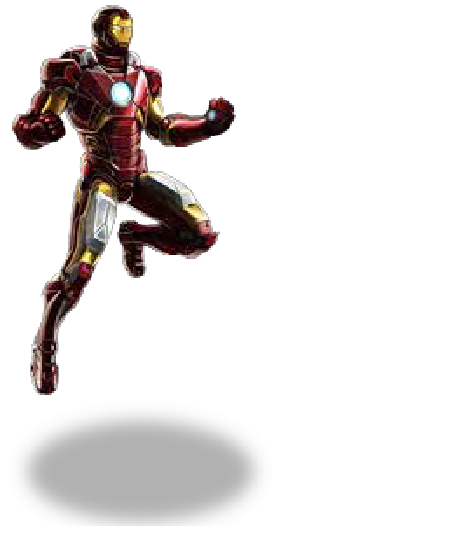
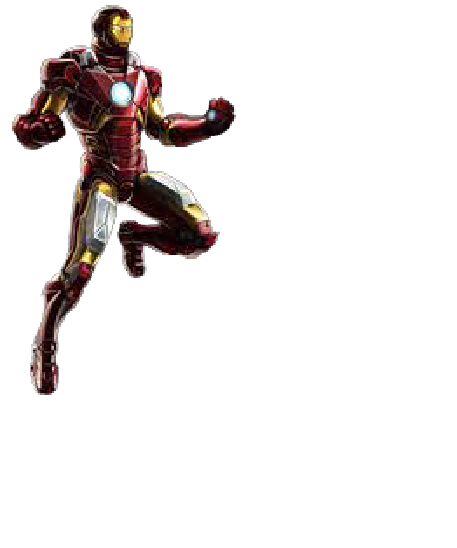
Mudança no Thanos no arq da depre

Changed region(s): [[0.0306, 0.7445, 0.5821, 0.9617]]

diff --git a/arquivo_da_depressao.py b/arquivo_da_depressao.py
@@ -25,6 +25,7 @@ RED = (255, 0, 0)
 GREEN = (0, 255, 0)
 BLUE = (0, 0, 255)
 YELLOW = (255, 255, 0)
+GREY = (128, 128, 128)
 
 #Propriedades do Player
 PLAYER_ACC=0.5
@@ -84,7 +85,7 @@ class Mob(pygame.sprite.Sprite):
         pygame.sprite.Sprite.__init__(self)
         self.manager = manager       
         # Diminuindo o tamanho da imagem.
-        self.image = pygame.transform.scale(mob_img, (150, 110))                
+        self.image = pygame.transform.scale(mob_img, (200, 160))                
         # Deixando transparente.
         self.image.set_colorkey(WHITE)       
         # Sorteia uma velocidade inicial
@@ -97,7 +98,7 @@ class Mob(pygame.sprite.Sprite):
         self.px = 1052
         # Sorteia um lugar inicial em y
 #        self.py = random.randrange(-100, -40) 
-        self.py = HEIGHT - 150    
+        self.py = HEIGHT - 170
         self.rect.x = self.px - self.manager.px
         self.rect.y = self.py - self.manager.py               
         # Melhora a colisão estabelecendo um raio de um circulo
@@ -135,6 +136,15 @@ class Bullet(pygame.sprite.Sprite):
         # Se o tiro passar do inicio da tela, morre.
         if self.rect.bottom < 0:
             self.kill()
+
+class platform(pygame.sprite.Sprite):
+    def __init__(self, x, y, w, h):
+        pygame.sprite.Sprite.__init__(self)
+        self.image = pygame.Surface((w, h))
+        self.image.fill(GREY)
+        self.rect = self.image.get_rect()
+        self.rect.x = x
+        self.rect.y = y
           
 class GameManager:
     def __init__(self):
@@ -174,6 +184,11 @@ player = Player(assets["player_img"], manager)
 # Cria um grupo de todos os sprites e adiciona a nave.
 all_sprites = pygame.sprite.Group()
 all_sprites.add(player)
+
+#Cria um gupo de plataforma
+platforms = pygame.sprite.Group()
+pl = platform(0, HEIGHT - 25, WIDTH, 100)
+all_sprites.add(pl)
 
 # Cria um grupo só do thanos
 mobs = pygame.sprite.Group()
